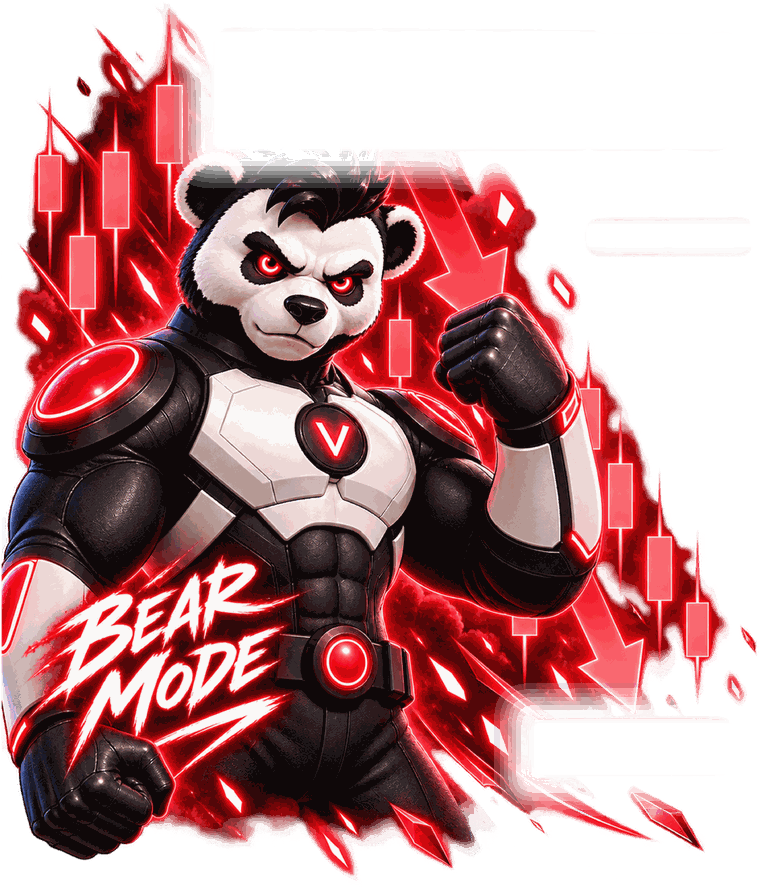
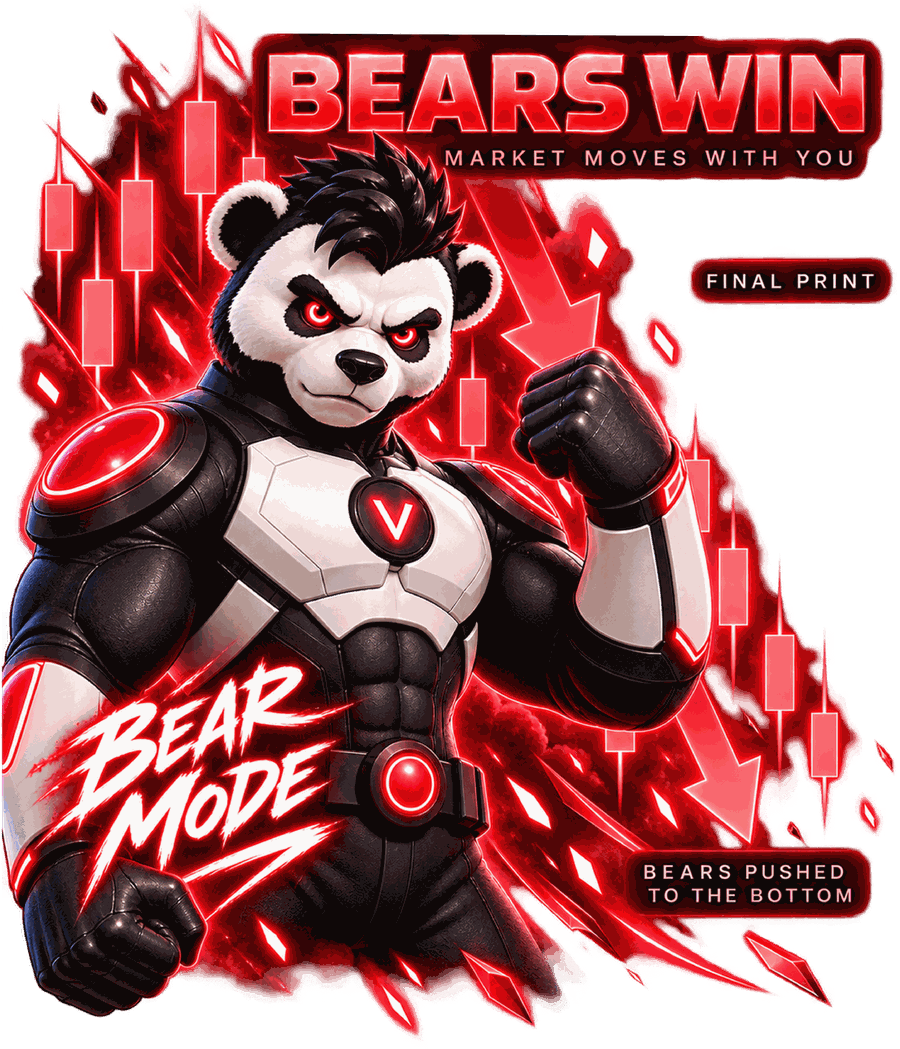
Pointæway: the result art whole, and a draw of its own
Last round's crop is reversed. The character pieces are used as they were
delivered — the headline, the tagline, the FINAL PRINT label and the
caption are part of the art and the app now renders none of them. The
only transparent margin is trimmed, which moves nothing the art draws;
it is what lets the overlay be placed as a fraction of the picture.

What the app adds is the round line above and, on a win, the figure and
the meter — dropped into the hole the art leaves under its own FINAL
PRINT label, with a laurel branch either side of the track as the
reference has them. The hole is measured off the delivered files and
carried per side as percentages of the art, and everything inside it is
sized in fractions of the art's width, so the whole thing scales with
the picture rather than with the screen. The art itself is bounded on
both axes through container units and fills the stage's width on every
size tried.

A draw is a third screen now, with its own piece. It paints its own
headline and its own meter at 0, so it takes no overlay at all — just
the round line, the buttons, and the sign-off. It is 3:2 where the two
win pieces are nearer 9:10, so on a phone it leaves room above and below;
shown whole, as asked.

The chart behind View Match, the picker, and the engine are untouched:
six seeded matches play candle for candle against the run before this.

Claude-Session: https://claude.ai/code/session_01TdySnLZtEvYDfCBTJ6eC9W

diff --git a/css/style.css b/css/style.css
@@ -5690,72 +5690,85 @@ a.pr-link:active { border-color: var(--cyan); filter: brightness(1.25); }
   font-size: calc(10.5px * var(--fs));
   font-weight: 700; letter-spacing: .22em; text-transform: uppercase;
   color: #8FA9C4;
+  margin-bottom: 4px;
 }
-.pw-over-title {
-  font-size: calc(38px * var(--fs));
-  font-weight: 900; letter-spacing: .01em; line-height: 1.02;
-  text-transform: uppercase;
-  color: var(--pw-over-tone);
-  text-shadow: 0 0 18px color-mix(in srgb, var(--pw-over-tone) 55%, transparent);
-  margin: 2px 0 0;
-}
-.pw-over-sub {
-  font-size: calc(10.5px * var(--fs));
-  font-weight: 700; letter-spacing: .2em; text-transform: uppercase;
-  color: #7FD4E8;
-  margin-bottom: 6px;
-}
-/* the scene: the character takes what is left after the print's column, and
-   both are bounded on height so the row cannot push the buttons off screen */
+/* The stage is the room between the round line and the buttons; the art is
+   drawn as large as that room allows without losing an edge. Both axes are
+   bounded through container units — sizing on one alone is the trap every
+   picture in this game has fallen into once. */
 .pw-over-stage {
   flex: 1 1 auto;
+  min-height: 0;
+  container-type: size;
   display: flex;
   align-items: center;
   justify-content: center;
-  gap: 4px;
-  min-height: 0;
-  margin: 2px 0 4px;
 }
-/* The character takes the room the print's column leaves and fills it on both
-   axes — height alone let the wider of the two pieces push past the column,
-   which is the same trap the cards and the seats fell into. */
 .pw-over-art {
-  flex: 1 1 64%;
-  min-width: 0;
-  width: 100%;
-  height: 100%;
-  object-fit: contain;
-  object-position: center center;
+  position: relative;
+  aspect-ratio: var(--ar);
+  width: min(100cqw, 100cqh * var(--ar));
+  max-width: 100%;
+  max-height: 100%;
+  /* the overlay measures itself against this box, so it must be the art's
+     box exactly — which it is, since the image fills it edge to edge */
+  container-type: size;
 }
-.pw-over-stat {
-  flex: 0 0 34%;
-  min-width: 0;
+.pw-over-art > img { display: block; width: 100%; height: 100%; }
+/* The hole the art leaves under its FINAL PRINT label, and what goes in it:
+   the figure at the top, the meter filling the rest, the two branches beside
+   it. Every size in here is a fraction of the art's width, so the whole
+   thing scales with the picture rather than with the screen. */
+.pw-over-slot {
+  position: absolute;
   display: flex;
   flex-direction: column;
   align-items: center;
-  justify-content: center;
-  gap: 2px;
+  justify-content: flex-start;
 }
-/* a draw: the meter is the whole stage, so it takes the middle and grows */
-.pw-over-stage.solo .pw-over-stat { flex: 0 0 auto; }
-.pw-over-stage.solo .pw-track { width: 48px; }
-.pw-over-stage.solo .pw-over-caption { max-width: 190px; }
-.pw-over-stat-cap {
-  font-size: calc(9.5px * var(--fs));
-  font-weight: 700; letter-spacing: .16em; text-transform: uppercase;
-  color: #9FC0E0;
+.pw-over-slot .pw-track-panel {
+  flex: 1 1 auto;
+  min-height: 0;
+  width: 100%;
+  gap: 0.6cqw;
 }
-/* the same meter the match was played on, at the size a headline figure wants */
-.pw-over .pw-track-val { font-size: calc(34px * var(--fs)); }
-.pw-over .pw-track { width: 40px; height: clamp(96px, 16vh, 150px); }
-.pw-over-caption {
-  max-width: 108px;
-  font-size: calc(9.5px * var(--fs));
-  font-weight: 700; letter-spacing: .1em; text-transform: uppercase;
-  line-height: 1.35;
-  color: #7FD4E8;
-  margin-top: 4px;
+.pw-over-slot .pw-track-val {
+  font-size: 8.2cqw;
+  font-weight: 900;
+  line-height: 1;
+  text-shadow: 0 0 14px color-mix(in srgb, currentColor 70%, transparent);
 }
+.pw-over-slot .pw-track-row {
+  flex: 1 1 auto;
+  min-height: 0;
+  width: 100%;
+  gap: 0.5cqw;
+}
+.pw-over-slot .pw-track-end { font-size: 2.2cqw; letter-spacing: .06em; color: #C9DDF2; }
+.pw-over-slot .pw-track {
+  flex: 1 1 auto;
+  min-height: 0;
+  height: auto;
+  width: 9.5cqw;
+  border-radius: 2.4cqw;
+  background-size: 1.8cqw 2.6cqw;
+  border-color: rgba(143,169,196,.55);
+}
+.pw-over-slot .pw-track-mid { font-size: 1.7cqw; }
+.pw-over-slot .pw-track-fill { left: 0.9cqw; right: 0.9cqw; border-radius: 1cqw; }
+.pw-laurel {
+  position: absolute;
+  top: 40%;
+  width: 6.4cqw;
+  height: 21cqw;
+  color: var(--pw-over-tone);
+  opacity: .85;
+  filter: drop-shadow(0 0 4px color-mix(in srgb, var(--pw-over-tone) 60%, transparent));
+}
+.pw-laurel svg { width: 100%; height: 100%; display: block; }
+.pw-laurel.l { left: 6%; }
+.pw-laurel.r { right: 6%; transform: scaleX(-1); }
+
 /* Play Again is the one thing this screen wants you to do, so it carries the
    wide pill; the two below it share the row and the smaller one. Both are the
    pill the app already draws everywhere — no new art for this screen. */

diff --git a/js/app.js b/js/app.js
@@ -4004,43 +4004,49 @@
      every match and a picture cannot. What is left on the art is the scene
      and the BULL MODE / BEAR MODE wordmark, which nothing here repeats. */
 
-  const PW_OVER_ART = { bull: "bull-wins", bear: "bear-wins" };
+  /* Each finished piece, whole and as delivered: the headline, the tagline,
+     the FINAL PRINT label and the caption are all in the pixels, and the app
+     renders none of them. What it adds is the round line above, and — on a
+     win — the figure and the meter, dropped into the hole the art leaves under
+     its own FINAL PRINT label. `slot` is that hole as percentages of the art,
+     measured off the delivered files; the draw piece paints its own meter at
+     0, so it has no slot and takes no overlay. `w`/`h` are the files' own
+     proportions, which is how the slot stays on the art at any size. */
+  const PW_OVER_ART = {
+    bull: { file: "bull-wins", w: 900, h: 1011, slot: { l: 75.5, t: 30.0, w: 24.5, h: 49.5 } },
+    bear: { file: "bear-wins", w: 900, h: 1049, slot: { l: 75.5, t: 29.5, w: 24.5, h: 48.5 } },
+    draw: { file: "draw",      w: 900, h: 596,  slot: null },
+  };
 
-  /* A match ends two ways, and the caption has to tell the truth about which.
-     Reaching the target IS pushing the print to the top or the bottom; running
-     the decks out while ahead is holding it there, which is a different thing
-     and reads as a lie if it claims the first. */
-  function pwOverCaption() {
-    const c = pw.candle;
-    if (pw.winner === "draw") return "Neither side moved the print";
-    const pushed = Math.abs(c) >= PW_TARGET;
-    if (pw.winner === "bull") return pushed ? "Bulls pushed to the top" : "Bulls held the print up";
-    return pushed ? "Bears pushed to the bottom" : "Bears held the print down";
-  }
+  /* a laurel branch, one side; mirrored for the other with a transform */
+  const PW_LAUREL = `
+    <svg viewBox="0 0 28 90" aria-hidden="true">
+      <path d="M22 4 C6 26 6 64 22 86" fill="none" stroke="currentColor" stroke-width="1.6" stroke-linecap="round"/>
+      ${[12, 26, 40, 54, 68].map((y) => `
+        <ellipse cx="11" cy="${y}" rx="3.2" ry="7" transform="rotate(-38 11 ${y})" fill="currentColor"/>
+        <ellipse cx="20" cy="${y + 7}" rx="3.2" ry="7" transform="rotate(38 20 ${y + 7})" fill="currentColor"/>`).join("")}
+    </svg>`;
 
   function pwOverHTML() {
-    const draw = pw.winner === "draw";
-    const tone = draw ? "flat" : pw.winner;
-    const label = draw ? "Doji — Draw" : pw.winner === "bull" ? "Bulls Win" : "Bears Win";
-    const art = PW_OVER_ART[pw.winner];
+    const tone = pw.winner;                       // bull | bear | draw
+    const art = PW_OVER_ART[tone];
+    const slot = art.slot;
+    const overlay = slot ? `
+          <div class="pw-over-slot"
+               style="left:${slot.l}%;top:${slot.t}%;width:${slot.w}%;height:${slot.h}%">
+            <span class="pw-laurel l">${PW_LAUREL}</span>
+            <span class="pw-laurel r">${PW_LAUREL}</span>
+            ${pwTrackHTML()}
+          </div>` : "";
     return `
       <div class="pw-over ${tone}">
         <div class="pw-over-kicker">Round ${pw.round} · Final Print</div>
-        <div class="pw-over-title">${esc(label)}</div>
-        <div class="pw-over-sub">Market moves with you</div>
 
-        ${/* A draw has no winner and so no character to show it with — the
-              print stands where it opened and nobody pushed it. The stage
-              drops to the meter alone rather than holding a blank column
-              where a figure would be. */""}
         ${pw.showMatch ? pwMatchChartHTML() : `
-        <div class="pw-over-stage${art ? "" : " solo"}">
-          ${art ? `<img class="pw-over-art" src="${PW_RESULT_ART}${art}.png"
-                        alt="" draggable="false">` : ""}
-          <div class="pw-over-stat">
-            <div class="pw-over-stat-cap">Final Print</div>
-            ${pwTrackHTML()}
-            <div class="pw-over-caption">${esc(pwOverCaption())}</div>
+        <div class="pw-over-stage">
+          <div class="pw-over-art" style="--ar:${art.w} / ${art.h}">
+            <img src="${PW_RESULT_ART}${art.file}.png" alt="" draggable="false">
+            ${overlay}
           </div>
         </div>`}
 

diff --git a/sw.js b/sw.js
@@ -3,7 +3,7 @@
  * deploys show up immediately; only falls back to cache when offline.
  * Heavy binary assets (images) are cache-first since they rarely change.
  */
-const CACHE = "learnaeway-v158";
+const CACHE = "learnaeway-v160";
 
 const SHELL = [
   "./",
@@ -127,7 +127,7 @@ const SHELL = [
    would hand every phone install 860KB it can never display.
 
    assets/pointaeway/result/ and selection-banner.jpg follow the cards: the
-   two character pieces are on the screen that ends a match, the banner is on
+   three result pieces are on the screen that ends a match, the banner is on
    the screen that starts one, and cache-first keeps each from the first time
    it is shown. Nobody who never opens Gameæway pays for any of them. */
 
